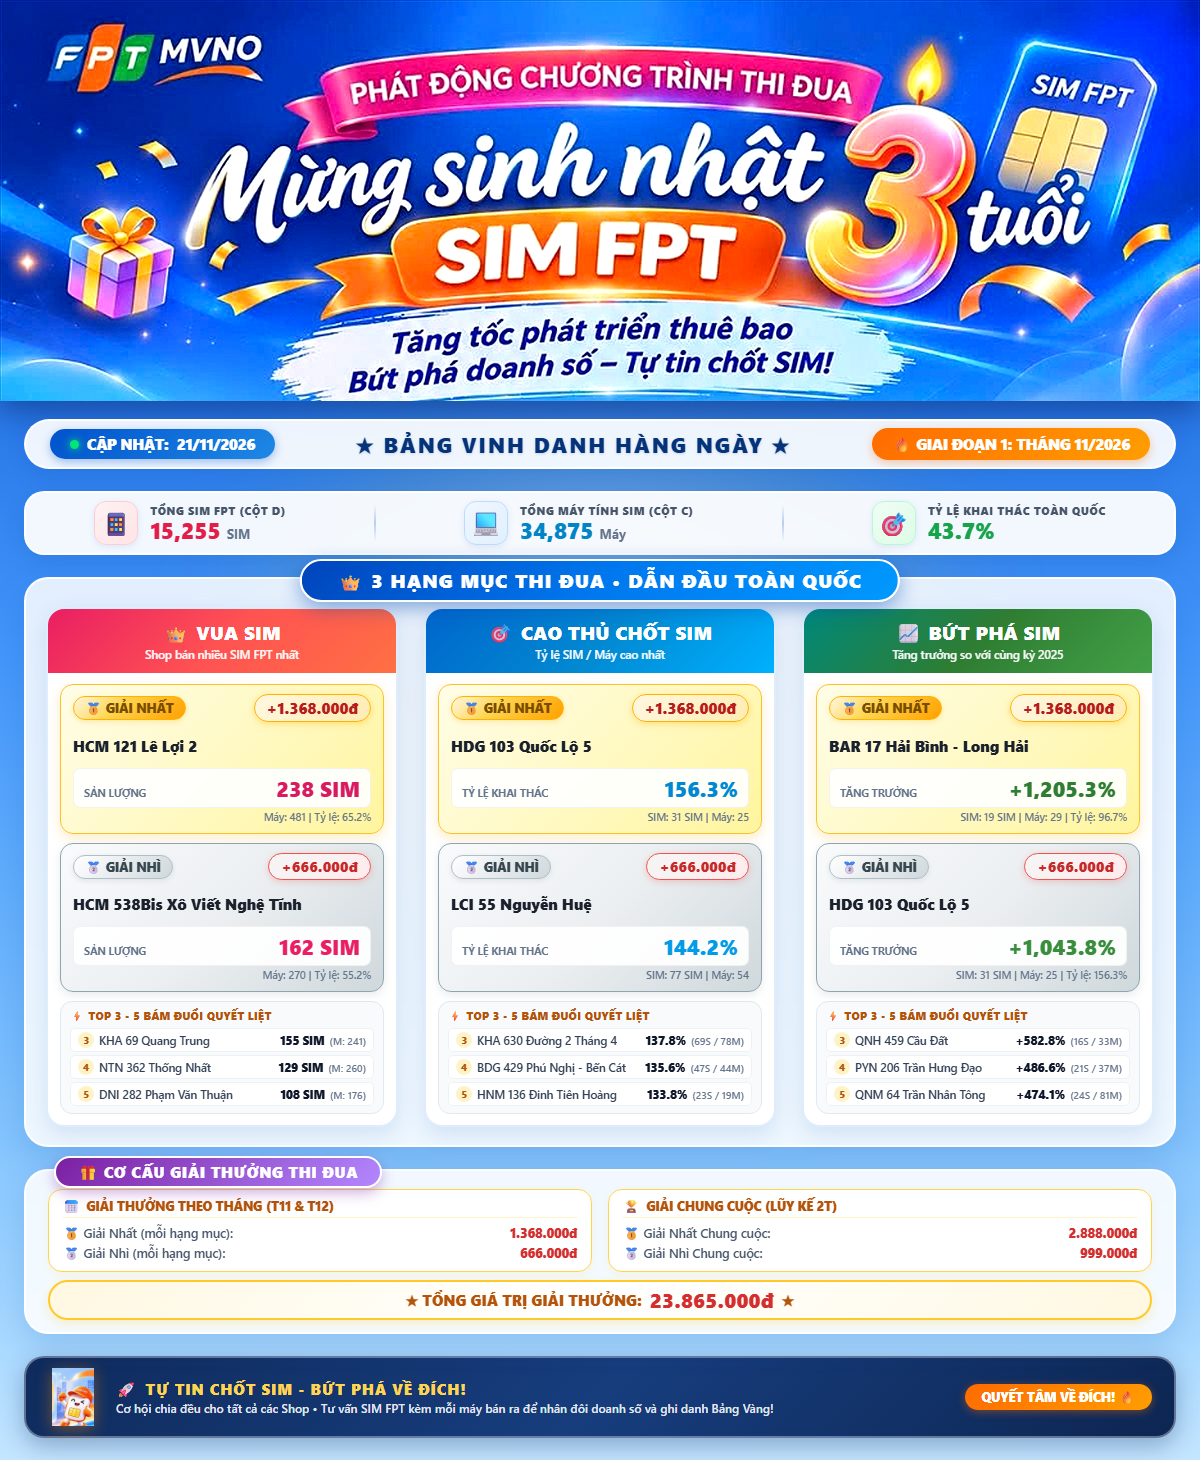
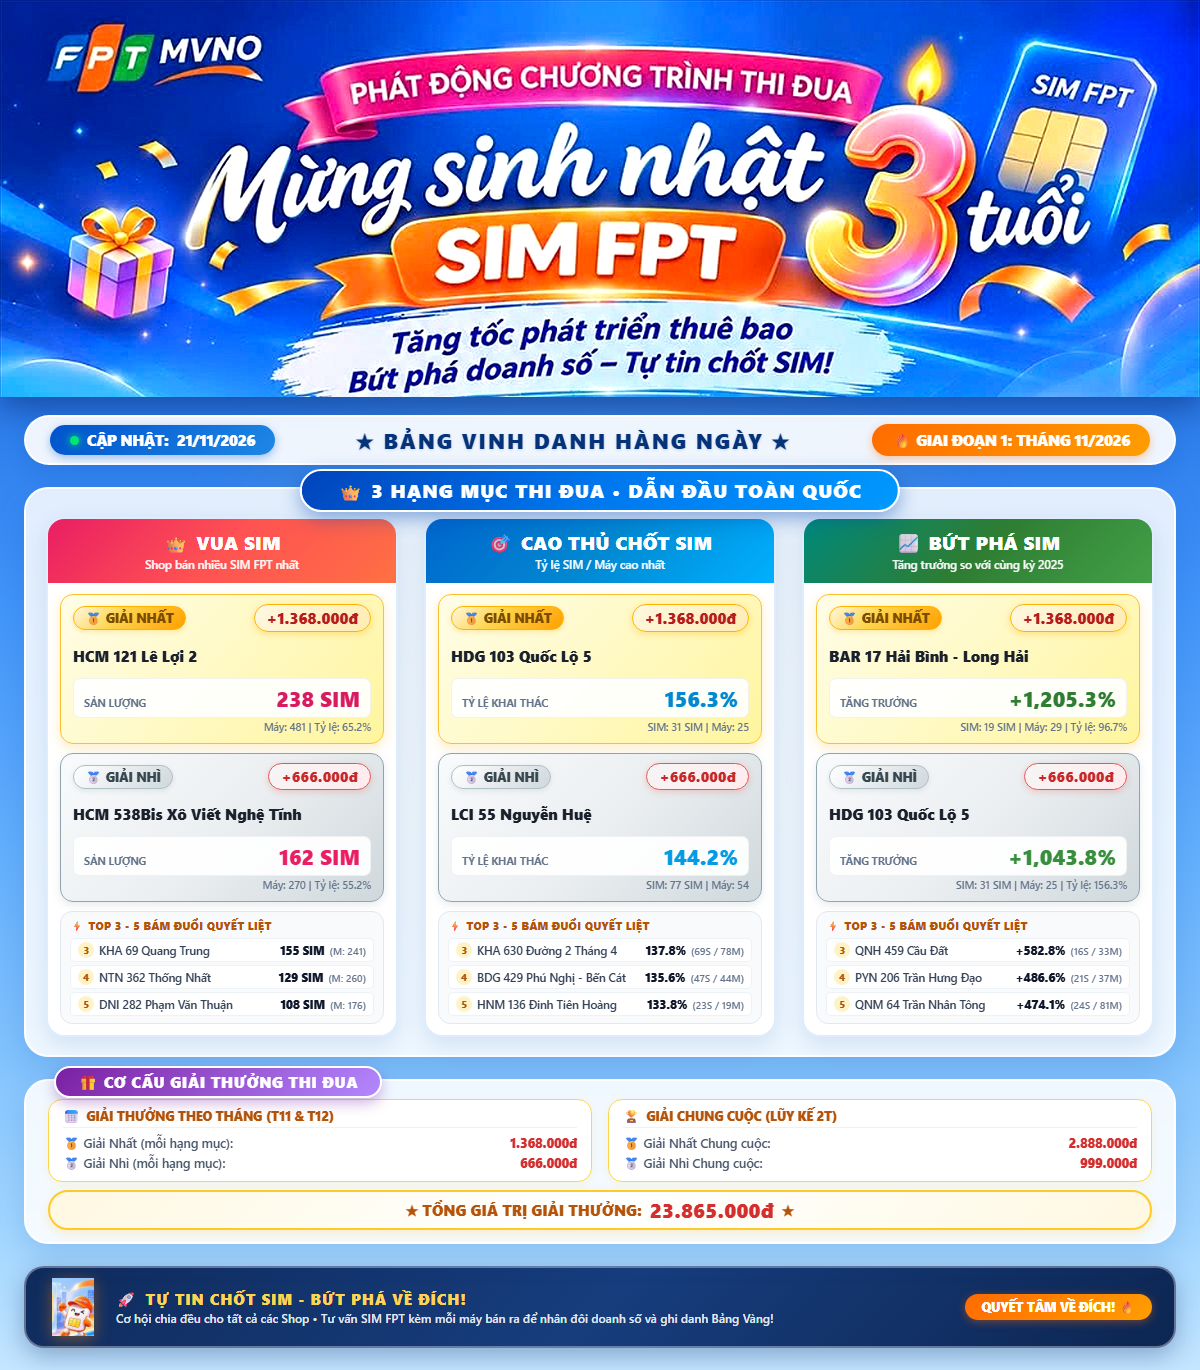
Cap nhat du lieu tu dong (23/11/2026 10:53:43)

diff --git a/template/infographic_template.html b/template/infographic_template.html
@@ -23,7 +23,7 @@
             background: linear-gradient(180deg, #022589 0%, #0d3b9e 7%, #1a5ac7 16%, #2878e8 28%, #4295fa 44%, #60adfd 60%, #85c5fe 78%, #a8d9ff 92%, #c4e6ff 100%);
             color: #1a202c;
             width: 1200px;
-            height: 1460px;
+            height: 1370px;
             margin: 0 auto;
             position: relative;
             overflow: hidden;
@@ -138,73 +138,7 @@
             gap: 6px;
         }
 
-                /* 2B. NATIONWIDE DAILY KPI BAR (CỘT C & CỘT D TOÀN QUỐC HÀNG NGÀY) */
-        .national-kpi-bar {
-            display: flex;
-            justify-content: space-around;
-            align-items: center;
-            background: rgba(255, 255, 255, 0.94);
-            backdrop-filter: blur(14px);
-            border: 2px solid rgba(255, 255, 255, 0.98);
-            border-radius: 20px;
-            padding: 8px 24px;
-            box-shadow: 0 6px 20px rgba(0, 70, 160, 0.16);
-            margin-bottom: 22px;
-        }
-        .kpi-item {
-            display: flex;
-            align-items: center;
-            gap: 12px;
-        }
-        .kpi-icon {
-            font-size: 24px;
-            width: 44px;
-            height: 44px;
-            border-radius: 12px;
-            display: flex;
-            align-items: center;
-            justify-content: center;
-            background: linear-gradient(135deg, #f0f7ff 0%, #e1effe 100%);
-            border: 1.5px solid #bddbff;
-            box-shadow: 0 2px 6px rgba(0, 80, 200, 0.1);
-        }
-        .kpi-sim .kpi-icon {
-            background: linear-gradient(135deg, #fff1f2 0%, #ffe4e6 100%);
-            border-color: #fecdd3;
-        }
-        .kpi-rate .kpi-icon {
-            background: linear-gradient(135deg, #f0fdf4 0%, #dcfce7 100%);
-            border-color: #bbf7d0;
-        }
-        .kpi-text {
-            display: flex;
-            flex-direction: column;
-        }
-        .kpi-label {
-            font-size: 11px;
-            font-weight: 800;
-            color: #475569;
-            text-transform: uppercase;
-            letter-spacing: 0.5px;
-        }
-        .kpi-val {
-            font-size: 22px;
-            font-weight: 900;
-            line-height: 1.15;
-        }
-        .kpi-sim .kpi-val { color: #e11d48; }
-        .kpi-may .kpi-val { color: #0284c7; }
-        .kpi-rate .kpi-val { color: #16a34a; }
-        .kpi-unit {
-            font-size: 13px;
-            font-weight: 700;
-            color: #64748b;
-        }
-        .kpi-divider {
-            width: 1.5px;
-            height: 38px;
-            background: linear-gradient(180deg, transparent, rgba(0, 80, 180, 0.25), transparent);
-        }
+
         .chaser-sub-val {
             font-size: 10px;
             font-weight: 600;
@@ -652,32 +586,7 @@
                 </div>
             </div>
 
-            <!-- 2B. CHỈ SỐ TOÀN QUỐC HÀNG NGÀY (CỘT C & CỘT D) -->
-            <div class="national-kpi-bar">
-                <div class="kpi-item kpi-sim">
-                    <div class="kpi-icon">📱</div>
-                    <div class="kpi-text">
-                        <span class="kpi-label">Tổng SIM FPT (Cột D)</span>
-                        <span class="kpi-val">__TONG_SL_SIM__ <span class="kpi-unit">SIM</span></span>
-                    </div>
-                </div>
-                <div class="kpi-divider"></div>
-                <div class="kpi-item kpi-may">
-                    <div class="kpi-icon">💻</div>
-                    <div class="kpi-text">
-                        <span class="kpi-label">Tổng Máy tính SIM (Cột C)</span>
-                        <span class="kpi-val">__TONG_SL_MAY__ <span class="kpi-unit">Máy</span></span>
-                    </div>
-                </div>
-                <div class="kpi-divider"></div>
-                <div class="kpi-item kpi-rate">
-                    <div class="kpi-icon">🎯</div>
-                    <div class="kpi-text">
-                        <span class="kpi-label">Tỷ lệ khai thác toàn quốc</span>
-                        <span class="kpi-val">__TONG_TY_LE__</span>
-                    </div>
-                </div>
-            </div>
+
 
             <!-- 3. SUPERCARD 3 HẠNG MỤC THI ĐUA (KHOẢNG CÁCH RỘNG RÃI) -->
             <div class="category-supercard">
